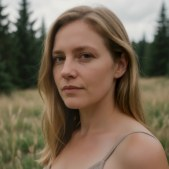
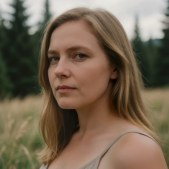
Update mediums-refgen-20261126: re-renders for head angle, no extra hand on 155

diff --git a/mediums-refgen-20261126/index.html b/mediums-refgen-20261126/index.html
@@ -999,7 +999,7 @@
       </figure>
       <figure>
         <img src="images/155%20-%20skeleton.png" width="768" height="768" alt="Reference 155 skeleton" loading="lazy">
-        <figcaption><span class="step">2</span> Skeleton (head + shoulders + arms + hands)</figcaption>
+        <figcaption><span class="step">2</span> Skeleton (head + shoulders)</figcaption>
       </figure>
       <figure>
         <img src="images/155%20-%20generated.png" width="256" height="256" alt="Generated for reference 155" loading="lazy">
@@ -1010,7 +1010,7 @@
         <figcaption><span class="step">4</span> Generated, full size <a href="images/155%20-%20generated%20full.jpg" target="_blank" rel="noopener">open</a></figcaption>
       </figure>
     </div>
-    <details><summary>Prompt</summary><p>A candid amateur snapshot taken by a friend with a phone held at eye level, not a selfie; her arms and hands are exactly where the skeleton puts them, with natural fingers: a half-body portrait of one 32-year-old woman with fair skin, oval face, softly rounded jaw, small straight nose, fuller lips, dark auburn hair in a low loose ponytail with soft side-swept fringe. Head angle: Her face is turned about 25 degrees toward the left side of the picture, a three-quarter view: her nose points toward the left, the right cheek in the picture is wider and nearer the camera and the left cheek is narrower; her head tilts about 10 degrees, the top of her head leaning toward the left side of the picture (the eye on the left of the picture is lower); her chin is slightly lowered, the camera a little above her eye level; her shoulders are angled to the camera, not square-on, her body turned toward the left side of the picture; she looks straight into the lens with her eyes turned back toward the camera. She is wearing black glossy leather-look strappy top, floral skirt in dark red and teal, large brown sunglasses, thin necklace. Expression: neutral, lips closed. Pose: arms wrapped around her knees, hands clasped near her knees. Framing: half-body seated, subject right of centre, lots of sea background, square frame; the whole head, including the top of the hair, is inside the frame with clear space above it, not a tight close-up. Background: a calm turquoise lake with small ripples, slightly soft. Lighting: soft diffuse daylight from the front, even and low contrast on the face with only mild shadow under the jaw, neutral to slightly cool colour with blue bounce from the water, face normally exposed. Light on the face: Frontal light on her face with gentle natural shading. Skin, as in the reference photo: smooth even fair skin, little visible texture at this distance, matte with slight shine on arms, light makeup with pink lips; natural and real, as the light falls on it. Camera: smartphone rear camera, moderate sharpness. Image 1 is only a black-background pose skeleton: match its head position, head tilt, face direction, shoulder line, any arm and hand positions, and the camera framing closely. Do not draw any lines, dots or skeleton in the photo. Real, unretouched skin with natural fine pores and slightly uneven tone, natural asymmetry, a few stray flyaway hairs. Not airbrushed, not waxy or plastic, not a studio or stock photo. Clean, crisp digital phone photo with natural colours and good contrast; no film grain, no noise, no film look.</p></details>
+    <details><summary>Prompt</summary><p>A candid amateur snapshot taken by a friend with a phone held at eye level, not a selfie; her hands are visible only as described in the pose below, with natural fingers; she has exactly two arms and two hands, no extra hand anywhere: a half-body portrait of one 32-year-old woman with fair skin, oval face, softly rounded jaw, small straight nose, fuller lips, dark auburn hair in a low loose ponytail with soft side-swept fringe. Head angle: Her face is turned about 25 degrees toward the left side of the picture, a three-quarter view: her nose points toward the left, the right cheek in the picture is wider and nearer the camera and the left cheek is narrower; her head tilts about 10 degrees, the top of her head leaning toward the left side of the picture (the eye on the left of the picture is lower); her chin is slightly lowered, the camera a little above her eye level; her shoulders are angled to the camera, not square-on, her body turned toward the left side of the picture; she looks straight into the lens with her eyes turned back toward the camera. She is wearing black glossy leather-look strappy top, floral skirt in dark red and teal, large brown sunglasses, thin necklace. Expression: neutral, lips closed. Pose: arms wrapped around her knees, hands clasped near her knees. Framing: half-body seated, subject right of centre, lots of sea background, square frame; the whole head, including the top of the hair, is inside the frame with clear space above it, not a tight close-up. Background: a calm turquoise lake with small ripples, slightly soft. Lighting: soft diffuse daylight from the front, even and low contrast on the face with only mild shadow under the jaw, neutral to slightly cool colour with blue bounce from the water, face normally exposed. Light on the face: Frontal light on her face with gentle natural shading. Skin, as in the reference photo: smooth even fair skin, little visible texture at this distance, matte with slight shine on arms, light makeup with pink lips; natural and real, as the light falls on it. Camera: smartphone rear camera, moderate sharpness. Image 1 is only a black-background pose skeleton: match its head position, head tilt, face direction, shoulder line, any arm and hand positions, and the camera framing closely. Do not draw any lines, dots or skeleton in the photo. Real, unretouched skin with natural fine pores and slightly uneven tone, natural asymmetry, a few stray flyaway hairs. Not airbrushed, not waxy or plastic, not a studio or stock photo. Clean, crisp digital phone photo with natural colours and good contrast; no film grain, no noise, no film look.</p></details>
   </section>
   <section id="set-166">
     <h2>Reference 166</h2>
@@ -1355,7 +1355,7 @@
         <figcaption><span class="step">4</span> Generated, full size <a href="images/237%20-%20generated%20full.jpg" target="_blank" rel="noopener">open</a></figcaption>
       </figure>
     </div>
-    <details><summary>Prompt</summary><p>A candid amateur snapshot taken by a friend with a phone held at eye level, not a selfie; the subject&#x27;s arms hang relaxed and are out of frame, no hands visible: a head-and-shoulders portrait of one 41-year-old woman with light skin, rounder face, softer jaw, shorter nose, fuller cheeks, fuller lips, lower softer brows, clear blue-grey eyes, naturally open with a natural catchlight, long straight light golden-brown hair with a side part and a few soft waves. Head angle: Her face is turned about 90 degrees toward the left side of the picture, a three-quarter view: her nose points toward the left, the right cheek in the picture is wider and nearer the camera and the left cheek is narrower; her head is upright and level, not tilted; her shoulders are angled to the camera, not square-on, her body turned toward the left side of the picture; she looks straight into the lens with her eyes turned back toward the camera. She is wearing light grey-beige sleeveless strappy top. Expression: neutral, lips closed, serious. Framing: head and shoulders, face left of centre, crown near top edge, cropped at shoulders, square frame; the whole head, including the top of the hair, is inside the frame with clear space above it, not a tight close-up. Background: an outdoor meadow with dark evergreen trees and pale dry grass, heavily blurred. Lighting: soft overcast daylight, soft even light on the face with gentle shadow, neutral to slightly warm, face normally exposed with a faint rim on the hair. Light on the face: Frontal light on her face with gentle natural shading; the light falls from above: forehead and cheekbones bright, under the chin darker. Skin, as in the reference photo: natural matte skin with visible fine pores and fine lines on cheeks and eyes, light redness on cheeks, bare to very light makeup; natural and real, as the light falls on it. Camera: DSLR portrait, shallow depth of field, natural film-like grain. Image 1 is only a black-background pose skeleton: match its head position, head tilt, face direction, shoulder line, any arm and hand positions, and the camera framing closely. Do not draw any lines, dots or skeleton in the photo. Real, unretouched skin with natural fine pores and slightly uneven tone, natural asymmetry, a few stray flyaway hairs. Not airbrushed, not waxy or plastic, not a studio or stock photo. Clean, crisp digital phone photo with natural colours and good contrast; no film grain, no noise, no film look.</p></details>
+    <details><summary>Prompt</summary><p>A candid amateur snapshot taken by a friend with a phone held at eye level, not a selfie; the subject&#x27;s arms hang relaxed and are out of frame, no hands visible: a head-and-shoulders portrait of one 41-year-old woman with light skin, rounder face, softer jaw, shorter nose, fuller cheeks, fuller lips, lower softer brows, clear blue-grey eyes, naturally open with a natural catchlight, long straight light golden-brown hair with a side part and a few soft waves. Head angle: She is seen in side profile, her face turned fully toward the left side of the picture: only the right side of her face is visible, her nose and lips in outline against the background, the far eye hidden; her head is upright and level, not tilted; her shoulders are angled to the camera, not square-on, her body turned toward the left side of the picture; she looks straight into the lens with her eyes turned back toward the camera. She is wearing light grey-beige sleeveless strappy top. Expression: neutral, lips closed, serious. Framing: head and shoulders, face left of centre, crown near top edge, cropped at shoulders, square frame; the whole head, including the top of the hair, is inside the frame with clear space above it, not a tight close-up. Background: an outdoor meadow with dark evergreen trees and pale dry grass, heavily blurred. Lighting: soft overcast daylight, soft even light on the face with gentle shadow, neutral to slightly warm, face normally exposed with a faint rim on the hair. Light on the face: Frontal light on her face with gentle natural shading; the light falls from above: forehead and cheekbones bright, under the chin darker. Skin, as in the reference photo: natural matte skin with visible fine pores and fine lines on cheeks and eyes, light redness on cheeks, bare to very light makeup; natural and real, as the light falls on it. Camera: DSLR portrait, shallow depth of field, natural film-like grain. Image 1 is only a black-background pose skeleton: match its head position, head tilt, face direction, shoulder line, any arm and hand positions, and the camera framing closely. Do not draw any lines, dots or skeleton in the photo. Real, unretouched skin with natural fine pores and slightly uneven tone, natural asymmetry, a few stray flyaway hairs. Not airbrushed, not waxy or plastic, not a studio or stock photo. Clean, crisp digital phone photo with natural colours and good contrast; no film grain, no noise, no film look.</p></details>
   </section>
   <section id="set-301">
     <h2>Reference 301</h2>
